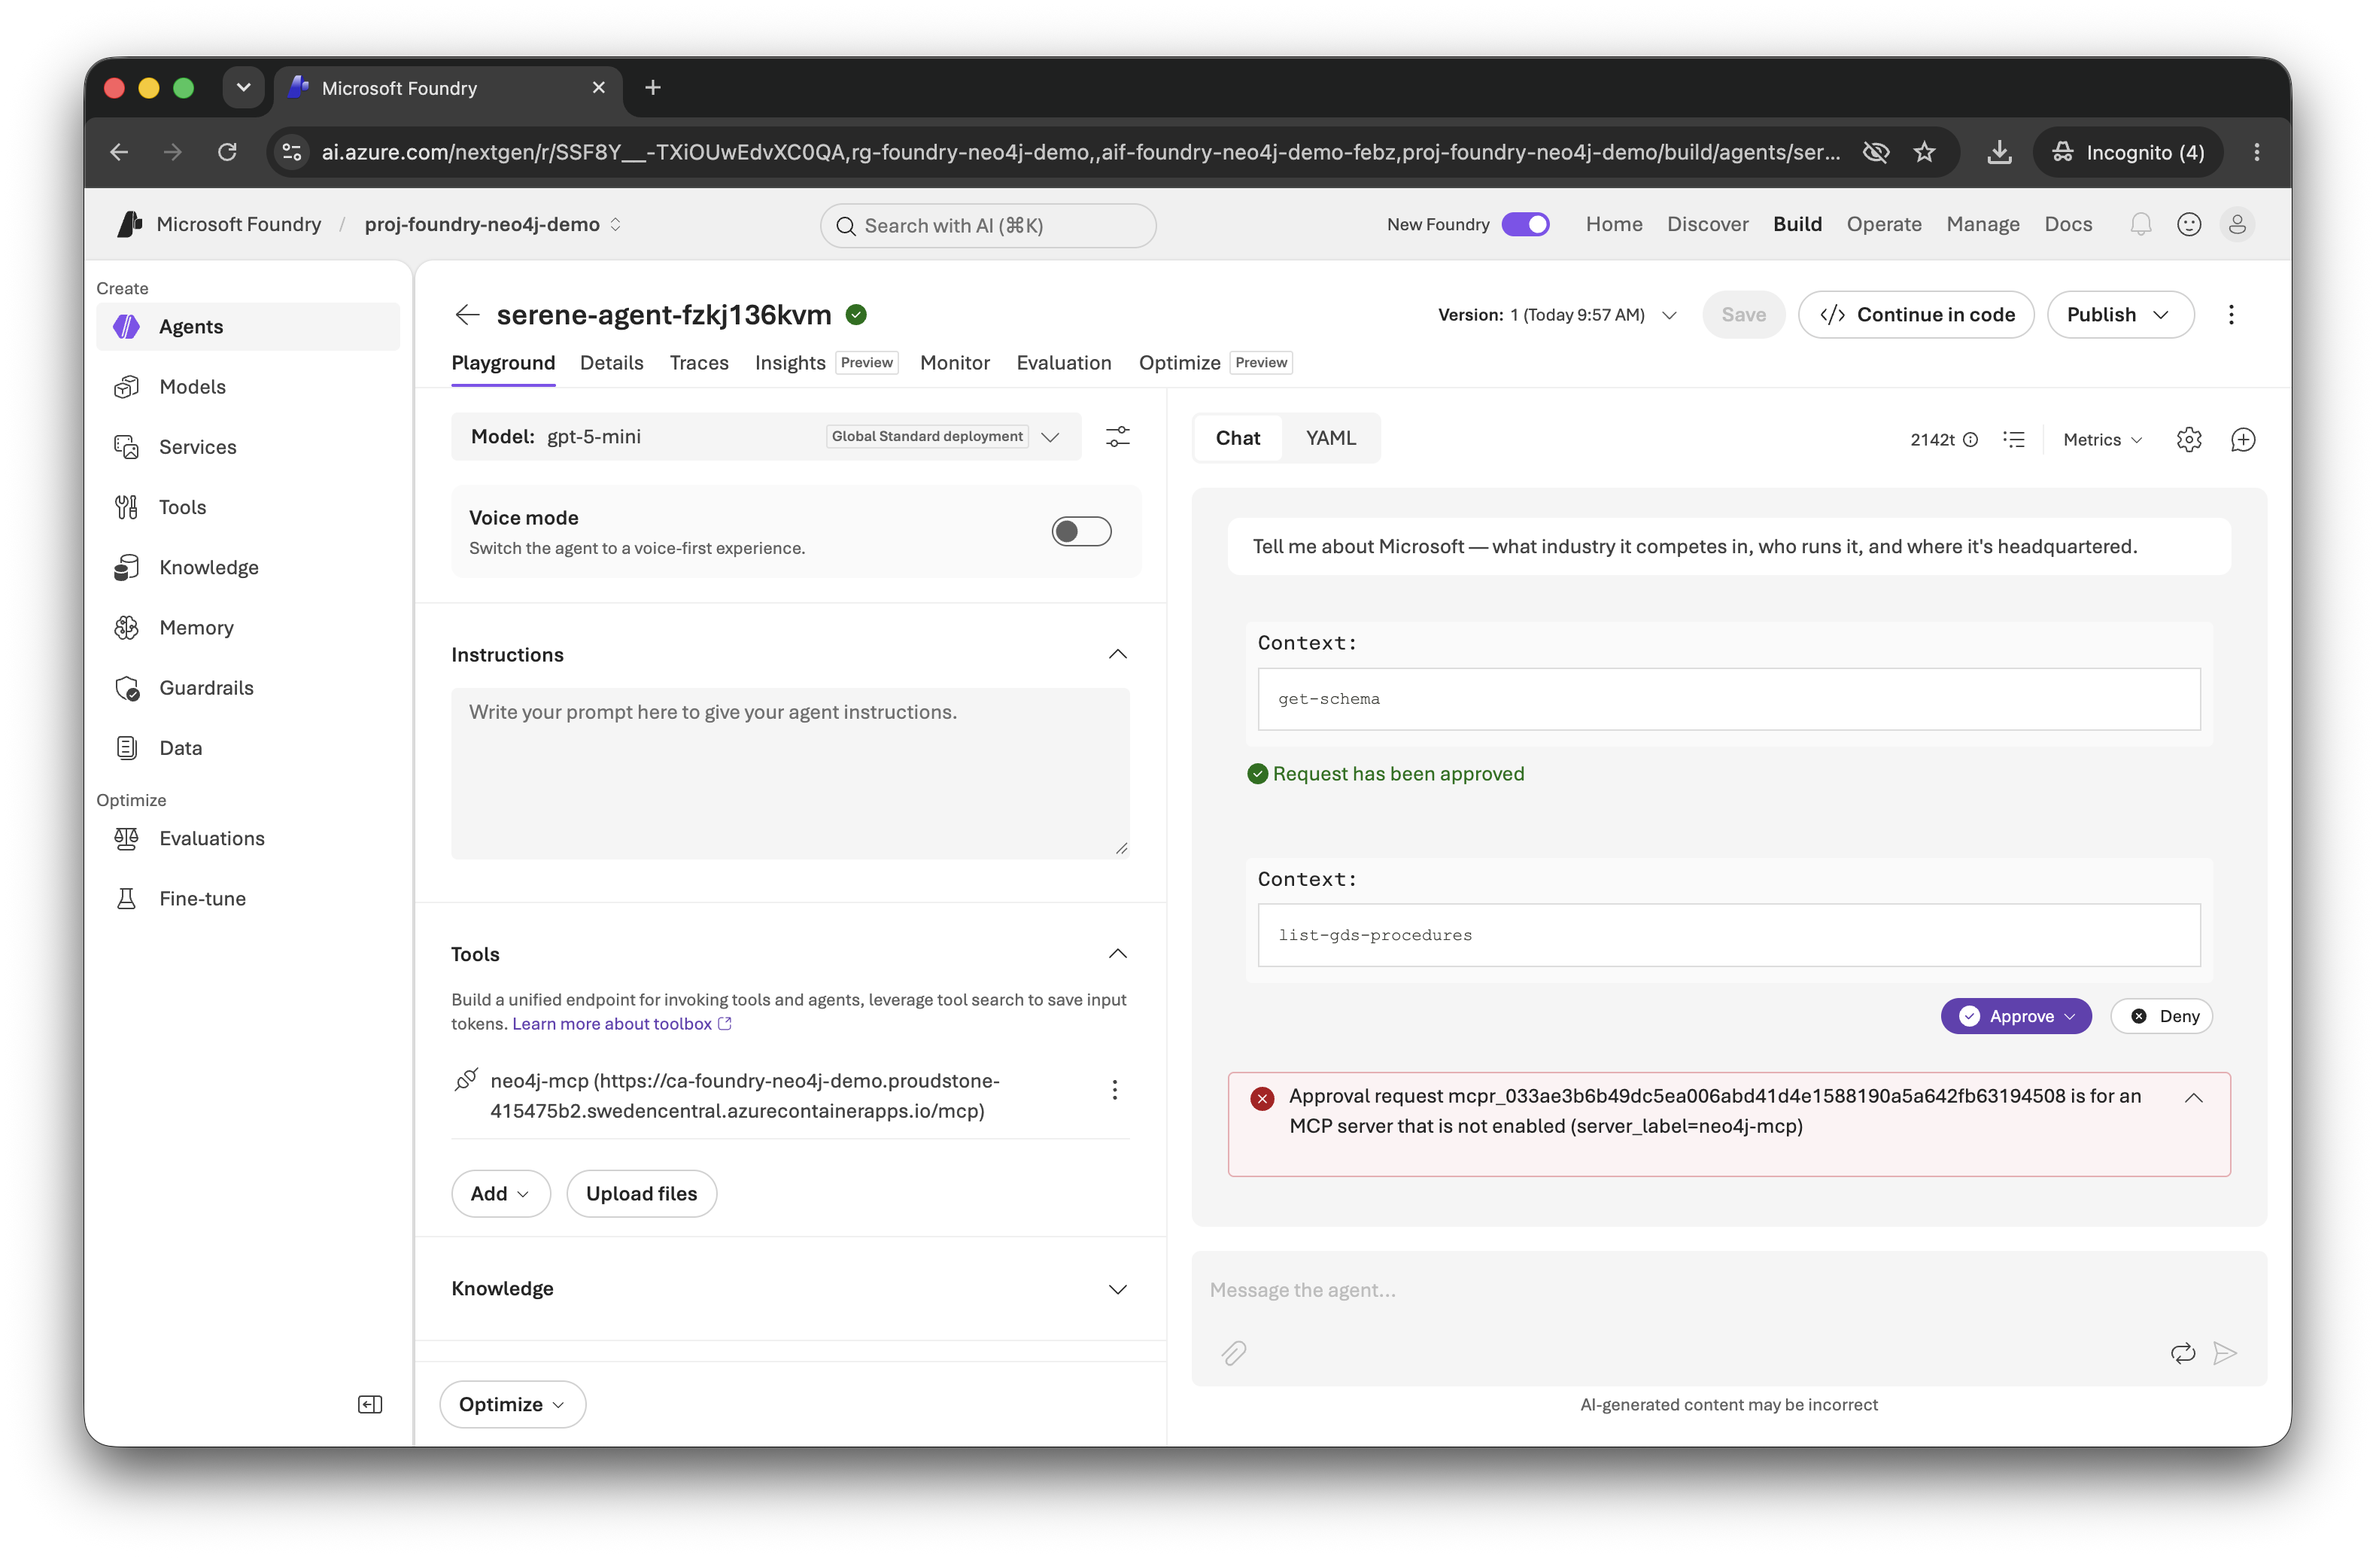
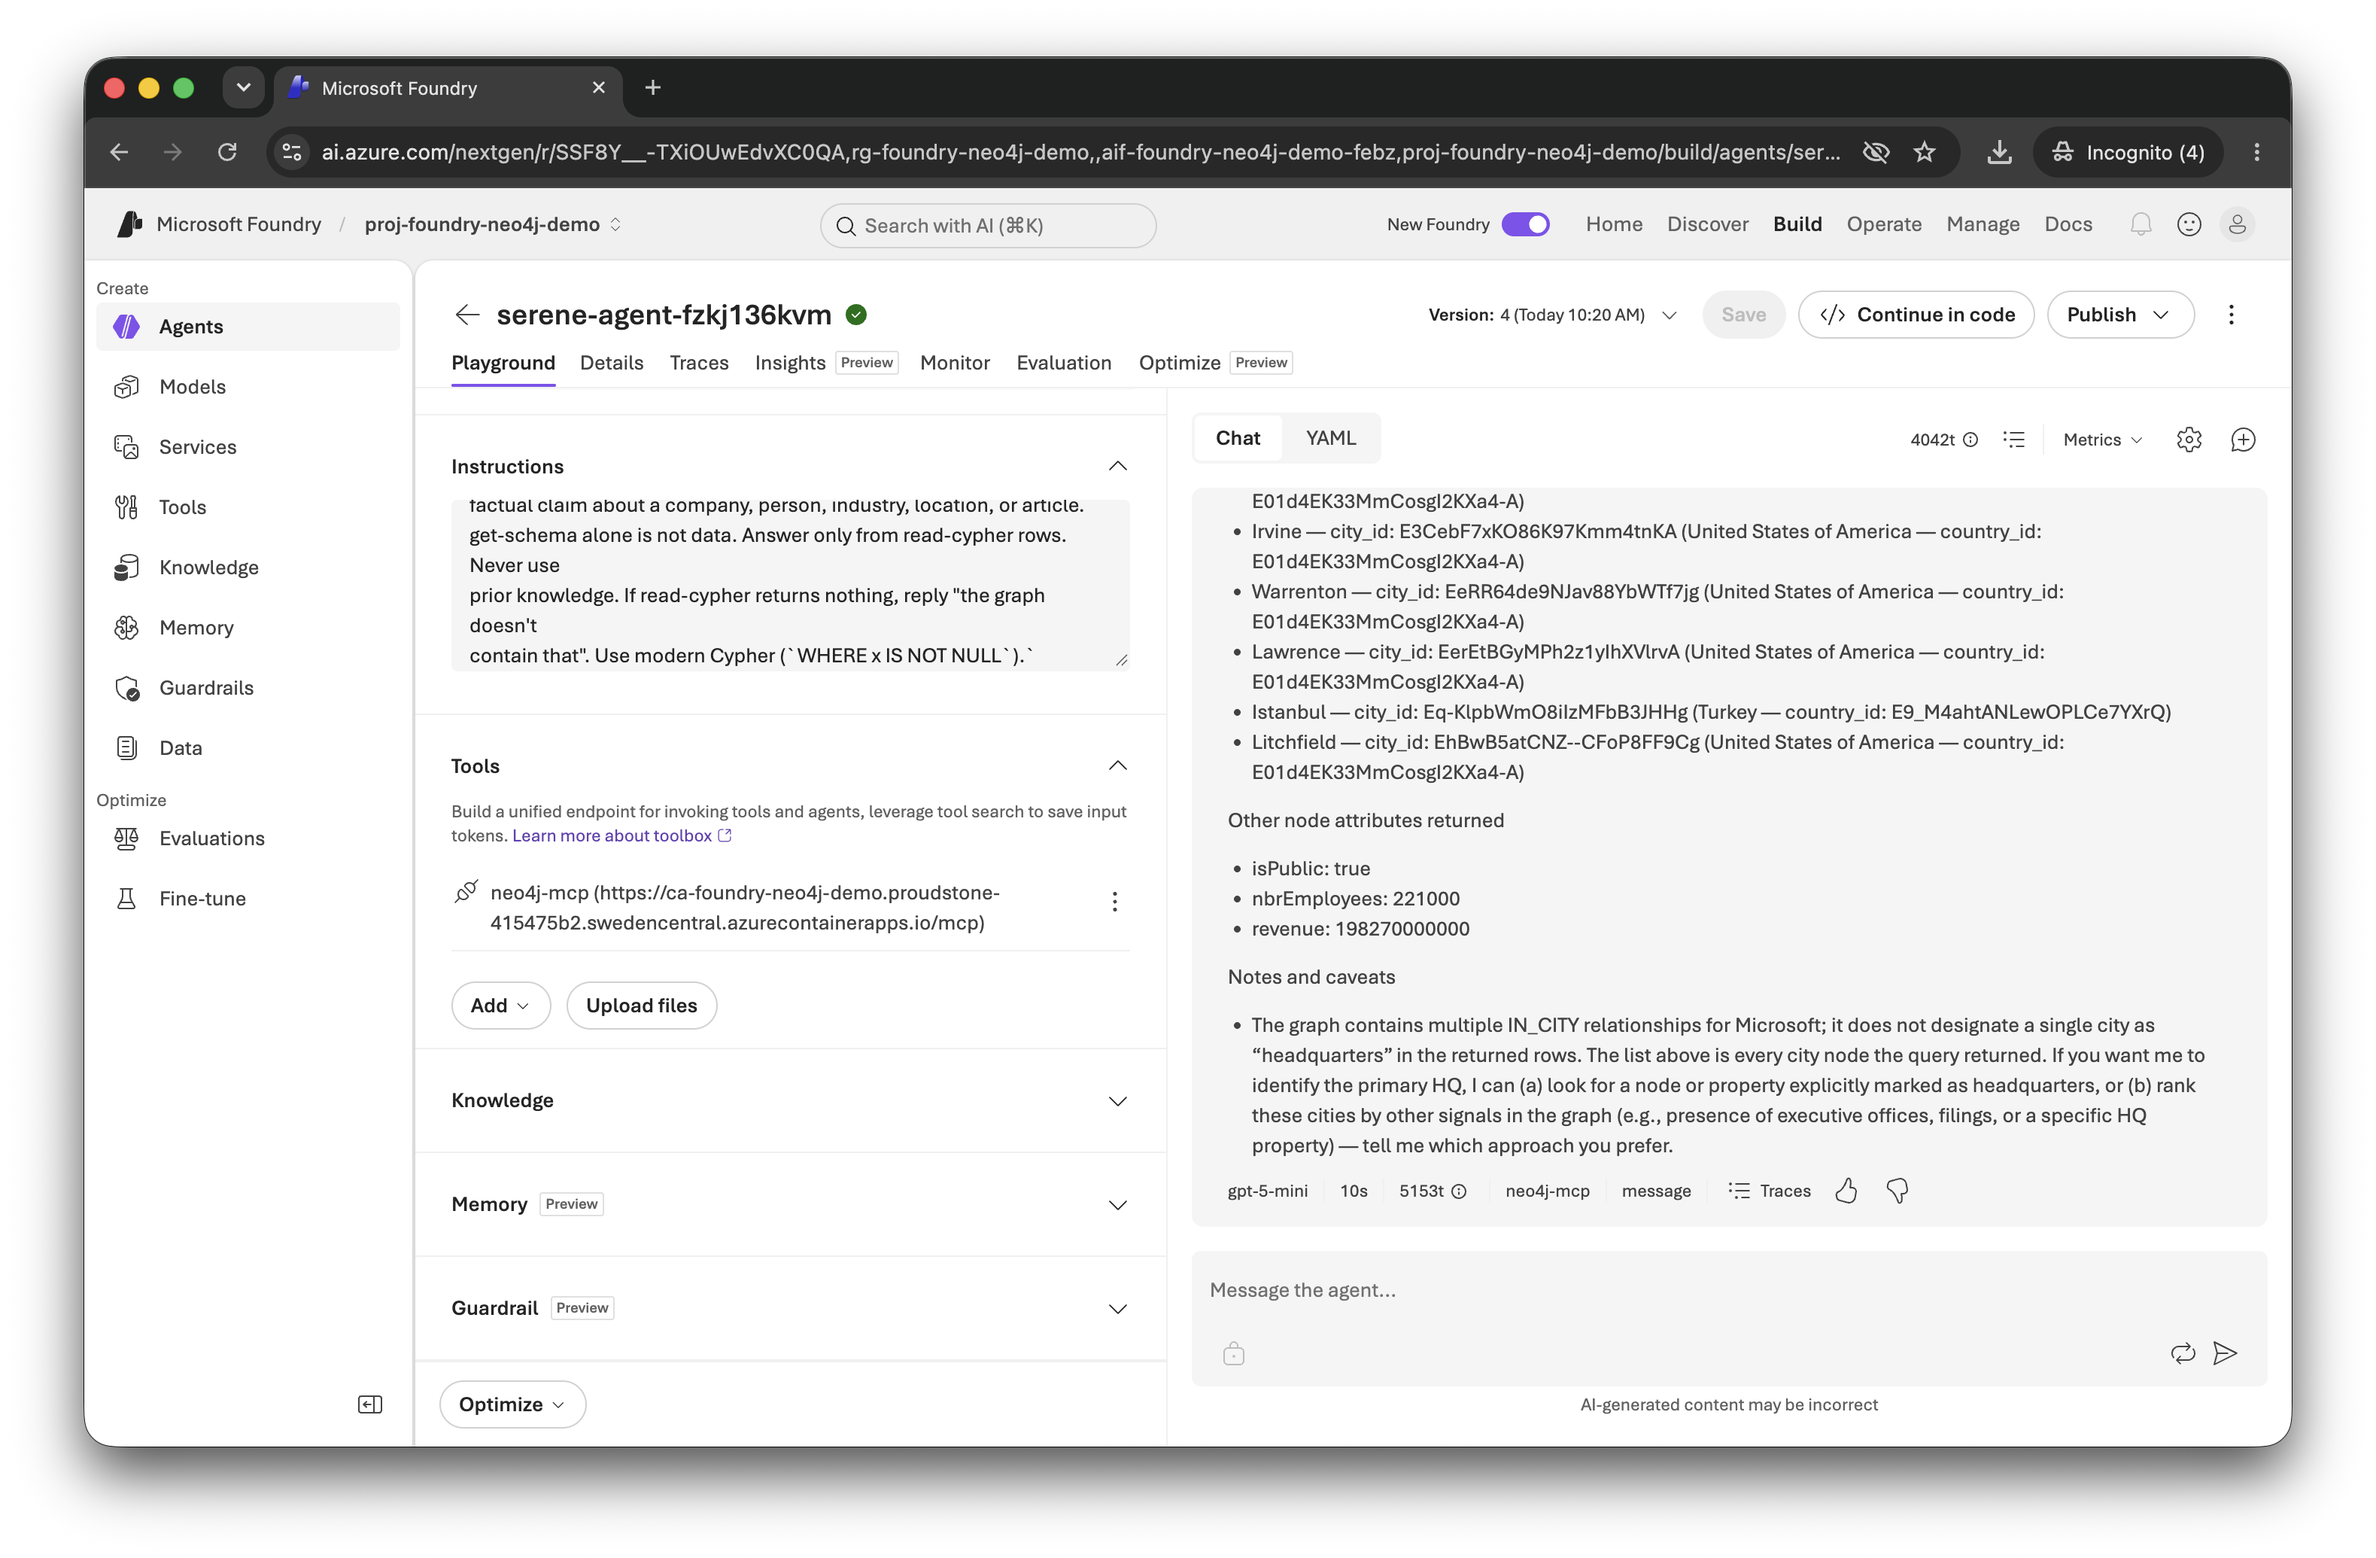
updates

diff --git a/assignment-3-ai-and-agents/lab-8-use-foundry/docs/README.md b/assignment-3-ai-and-agents/lab-8-use-foundry/docs/README.md
@@ -111,6 +111,8 @@ Let's remove the web search.  That way the agent will only use the MCP server fo
 
 Click "Remove."
 
+Click "Save" to save our configuration.
+
 ![](images/17.png)
 
 Now let's try our agent.  In the "Message the agent..." field type:
@@ -139,24 +141,20 @@ Click "Always approve this tool."
 
 ![](images/23.png)
 
-Currently seeing an error here ----
-
-![](images/24.png)
-
 That gives this result.
 
-![](images/25.png)
+![](images/24.png)
 
 Now let's try a different command:
 
     Find three companies that compete in the same industry as Microsoft.
 
-![](images/26.png)
+![](images/25.png)
 
 Here's another command to try:
 
     What recent articles mention Microsoft, and what topics do they cover?
 
-![](images/27.png)
+![](images/26.png)
 
 Feel free to explore and try your own ideas too!
